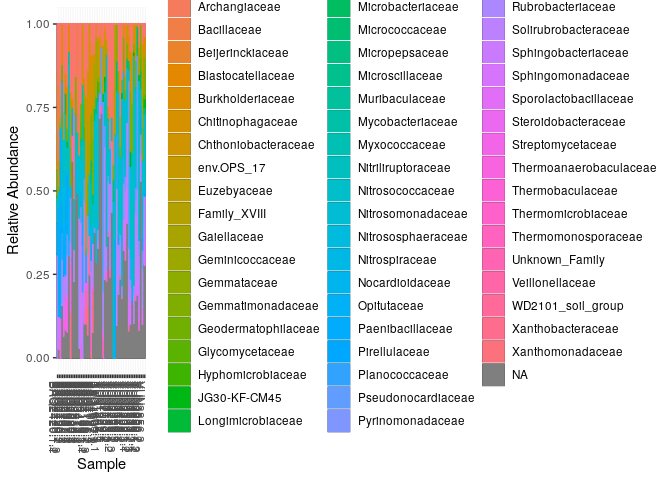
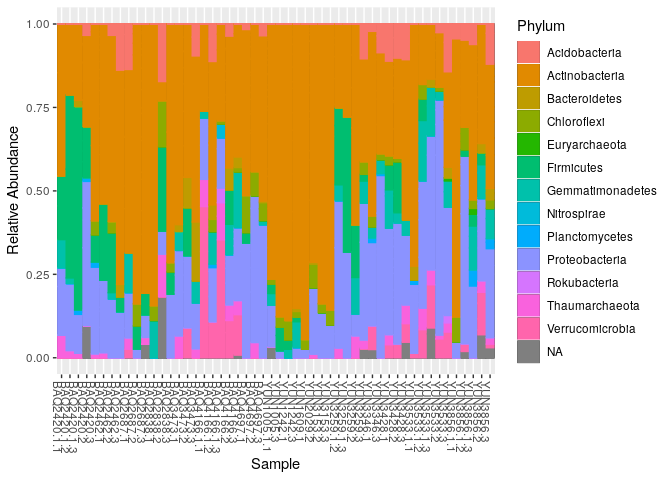
relative_abundance.Rmd: improved code and tweaked examples and text coverted most code to use pipes

diff --git a/content/lessons/relative_abundance.md b/content/lessons/relative_abundance.md
@@ -182,7 +182,11 @@ taxa in each sample by the total number of counts for that sample. The
 phyloseq object returned has fractional “counts”:
 
 ``` r
-atacama.ps.rel  = transform_sample_counts(atacama.ps, function(x) x / sum(x) )
+# for each sample -> per taxon count/(counts for sample)
+atacama.ps %>%
+  transform_sample_counts(function(x) x / sum(x) ) ->
+  atacama.ps.rel
+
 otu_table(atacama.ps.rel)[1:40,1:9] %>%
   as.data.frame %>%
   setNames(seq(ncol(.))) # number columns so we can see more than one at a time
@@ -278,7 +282,9 @@ otu_table(atacama.ps.rel)[1:40,1:9] %>%
 Maybe division by zero? Let’s check
 
 ``` r
-sample_sums(atacama.ps) %>% sort
+atacama.ps %>%
+  sample_sums %>% 
+  sort
 ```
 
     ##   YUN2029.1 YUN3008.1.3   YUN3184.2 YUN3259.1.1 BAQ1552.1.1   YUN1242.2 
@@ -308,16 +314,10 @@ Yes, there are several samples that have no counts, and a few more that
 have very low counts
 
 ``` r
-(sample_sums(atacama.ps) < 50) %>% sum
-```
-
-    ## [1] 9
-
-``` r
 plot_bar(atacama.ps)
 ```
 
-![](relative_abundance_files/figure-markdown_github/unnamed-chunk-7-1.png)
+![](relative_abundance_files/figure-markdown_github/unnamed-chunk-6-1.png)
 
 Let’s “prune” samples that have less counts of less than 50
 
@@ -396,6 +396,25 @@ plot_bar(atacama.ps.rel) +
 How about coloring by taxa as we did for absolute abundance plots
 
 ``` r
+atacama.ps.rel %>%
+  plot_bar(fill = "Phylum")
+```
+
+![](relative_abundance_files/figure-markdown_github/unnamed-chunk-10-1.png)
+
+``` r
+tax_level="Phylum"
+atacama.ps.rel %>%
+  plot_bar(fill = tax_level) +
+  labs(y = "Relative Abundance") +
+  geom_bar(aes(color = tax_level, fill = tax_level),
+           stat = "identity",
+           position = "stack")
+```
+
+![](relative_abundance_files/figure-markdown_github/unnamed-chunk-11-1.png)
+
+``` r
 tax_level="Phylum"
 atacama.ps.rel %>%
   plot_bar(fill = tax_level) +
@@ -405,7 +424,7 @@ atacama.ps.rel %>%
            position = "stack")
 ```
 
-![](relative_abundance_files/figure-markdown_github/unnamed-chunk-11-1.png)
+![](relative_abundance_files/figure-markdown_github/unnamed-chunk-12-1.png)
 
 #### Make it a function
 
@@ -427,7 +446,7 @@ atacama.ps.rel %>%
   noOutlineAbundancePlot(tax_level = "Phylum")
 ```
 
-![](relative_abundance_files/figure-markdown_github/unnamed-chunk-12-1.png)
+![](relative_abundance_files/figure-markdown_github/unnamed-chunk-13-1.png)
 
 How about by family
 
@@ -436,7 +455,7 @@ atacama.ps.rel %>%
   noOutlineAbundancePlot(tax_level = "Family")
 ```
 
-![](relative_abundance_files/figure-markdown_github/unnamed-chunk-13-1.png)
+![](relative_abundance_files/figure-markdown_github/unnamed-chunk-14-1.png)
 
 Prune Taxa
 ----------
@@ -452,7 +471,9 @@ ntaxa(atacama.ps.rel)
 How many different Families?
 
 ``` r
-length(get_taxa_unique(atacama.ps.rel,"Family"))
+atacama.ps.rel %>%
+get_taxa_unique("Family") %>%
+  length
 ```
 
     ## [1] 58
@@ -483,13 +504,25 @@ Let’s play with pruning taxa to make plots more manangeable. Let’s start
 by pruning all but the 20 taxa with the most counts
 
 ``` r
-top20 <- names(sort(taxa_sums(atacama.ps), decreasing=TRUE))[1:20]
+atacama.ps %>%
+  taxa_sums %>%
+  sort(decreasing=TRUE) %>%
+  names %>%
+  head(20) ->
+  top20
 
 atacama.prune_s.ps %>%
   transform_sample_counts(function(x) x / sum(x) ) %>%
   prune_taxa(top20, .) ->
   atacama.prune_s_t20.rel
+
+atacama.prune_s_t20.rel
 ```
+
+    ## phyloseq-class experiment-level object
+    ## otu_table()   OTU Table:         [ 20 taxa and 52 samples ]
+    ## sample_data() Sample Data:       [ 52 samples by 22 sample variables ]
+    ## tax_table()   Taxonomy Table:    [ 20 taxa by 7 taxonomic ranks ]
 
 ``` r
 print(atacama.ps)
@@ -523,7 +556,7 @@ atacama.prune_s_t20.rel %>%
   noOutlineAbundancePlot(tax_level = "Phylum")
 ```
 
-![](relative_abundance_files/figure-markdown_github/unnamed-chunk-21-1.png)
+![](relative_abundance_files/figure-markdown_github/unnamed-chunk-22-1.png)
 
 ### Where have all the taxa gone?
 
@@ -538,7 +571,7 @@ atacama.prune_s_t20.rel %>%
   labs(y = "Relative Abundance")
 ```
 
-![](relative_abundance_files/figure-markdown_github/unnamed-chunk-22-1.png)
+![](relative_abundance_files/figure-markdown_github/unnamed-chunk-23-1.png)
 
 ### Why transform first?
 
@@ -555,7 +588,10 @@ atacama.prune_s.ps %>%
 
     ## Warning: Removed 180 rows containing missing values (position_stack).
 
-![](relative_abundance_files/figure-markdown_github/unnamed-chunk-23-1.png)
+![](relative_abundance_files/figure-markdown_github/unnamed-chunk-24-1.png)
+
+Stopped Here 11/13/2020
+=======================
 
 ### Other Ways to Prune Taxa
 
@@ -609,7 +645,7 @@ filter_taxa
     ##         return(ans)
     ##     }
     ## }
-    ## <bytecode: 0x55d6e3639870>
+    ## <bytecode: 0x56432c4435e0>
     ## <environment: namespace:phyloseq>
 
 Let’s break it down:
@@ -678,7 +714,7 @@ atacama.prune_s_1pct.rel %>%
   noOutlineAbundancePlot(tax_level = "Phylum")
 ```
 
-![](relative_abundance_files/figure-markdown_github/unnamed-chunk-30-1.png)
+![](relative_abundance_files/figure-markdown_github/unnamed-chunk-31-1.png)
 
 Compare this with the pruning top20 plot above. Notice any important
 differences?
@@ -922,4 +958,4 @@ sessionInfo()
     ## [67] survival_3.1-8      yaml_2.2.0          colorspace_1.4-1   
     ## [70] rhdf5_2.30.1        cluster_2.1.0
 
-Total Knit Time: 62 in seconds; 1.03 in minutes
+Total Knit Time: 79.19 in seconds; 1.32 in minutes
